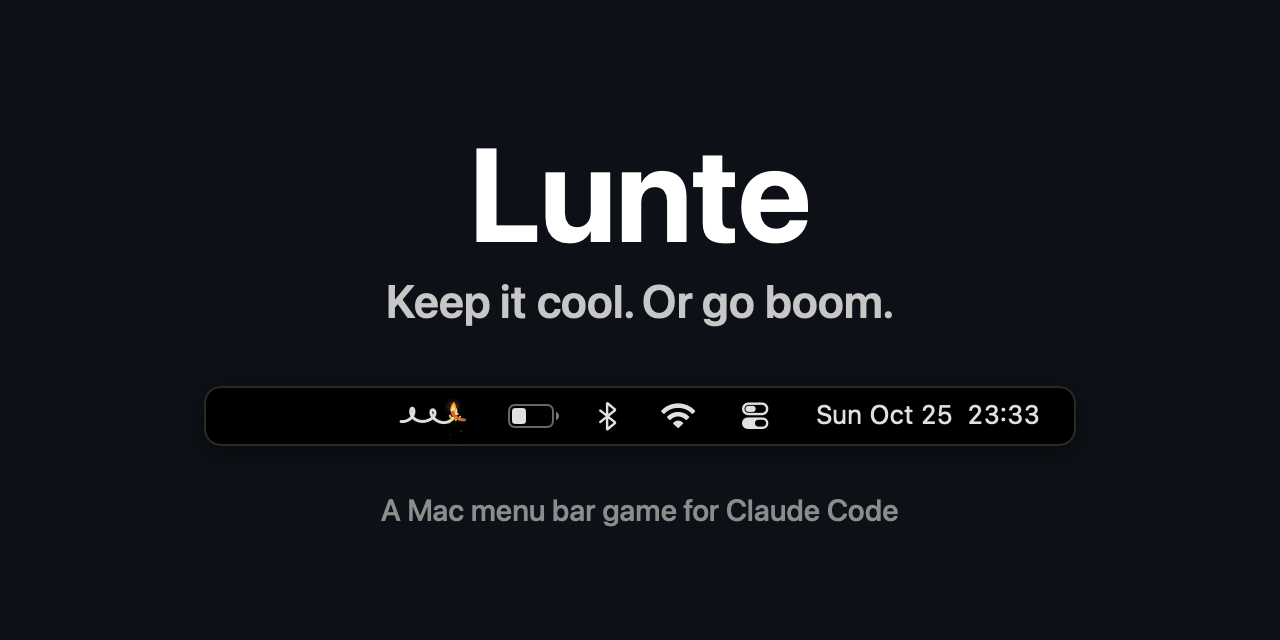
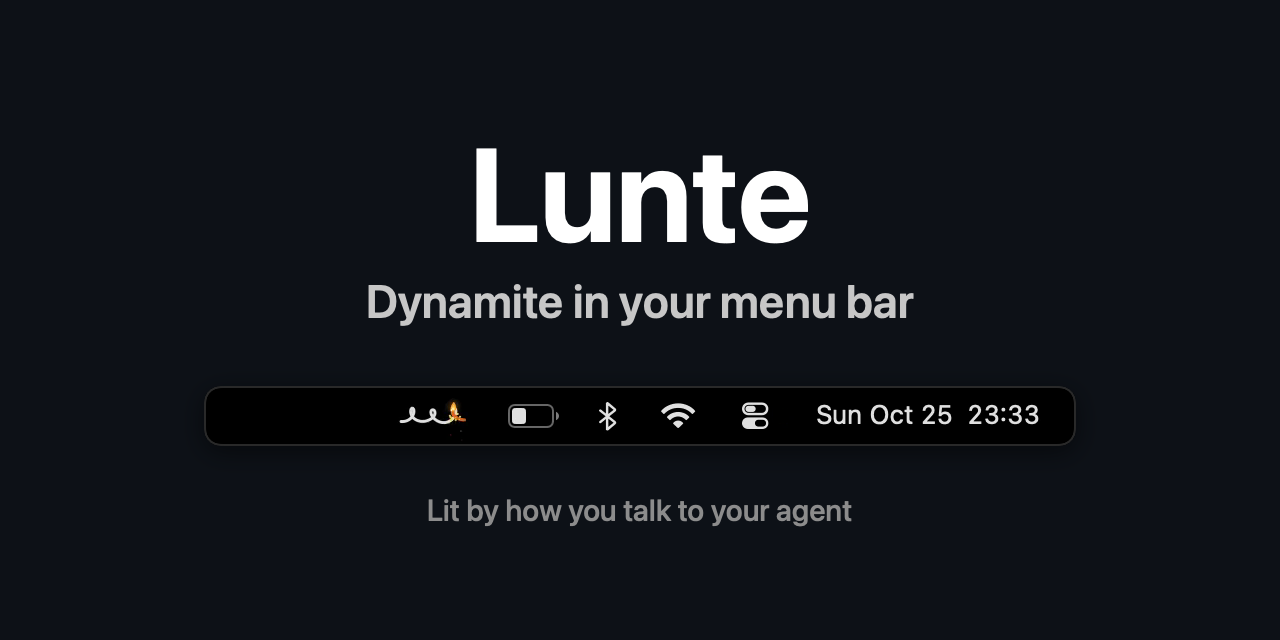
Lunte: dynamite in your menu bar
The README's name says what it is now, and one line says how it works: lit by
how you talk to your agent; keep it cool and the fuse grows, turn up the heat
and it blows. Under Download, that Lunte never stores or sends your prompts,
and Laya reads them on your Mac. Then: ask your agent to install it. The
social preview says the same.

Changed region(s): [[0.2812, 0.4375, 0.7188, 0.5312], [0.2812, 0.7812, 0.7188, 0.8438]]

diff --git a/scripts/render-fuse.swift b/scripts/render-fuse.swift
@@ -91,7 +91,7 @@ struct RenderFuse {
             .shadow(color: .black.opacity(dark ? 0.5 : 0.18), radius: h * 0.22, y: h * 0.1)
     }
 
-    /// The repo's social preview, 1280 x 640, what a link to it shows: the name, the line, and of the menu bar's frames
+    /// The repo's social preview, 1280 x 640, what a link to it shows: the name, what it is, and of the menu bar's frames
     /// in FRAMES the one with the most fire in it, on GitHub's dark page.
     @MainActor static func social(_ frames: String, _ out: String) {
         let bars = try! FileManager.default.contentsOfDirectory(atPath: frames).filter { $0.hasSuffix(".png") }.sorted()
@@ -99,10 +99,10 @@ struct RenderFuse {
         let bar = bars.max { fire($0) < fire($1) }!
         let view = VStack(spacing: 0) {
             Text("Lunte").font(.system(size: 132, weight: .bold)).foregroundStyle(.white)
-            Text("Keep it cool. Or go boom.").font(.system(size: 46, weight: .semibold)).foregroundStyle(Color(white: 0.78))
+            Text("Dynamite in your menu bar").font(.system(size: 46, weight: .semibold)).foregroundStyle(Color(white: 0.78))
                 .padding(.top, 4)
             floating(bar, dark: true).padding(.top, 58)
-            Text("A Mac menu bar game for Claude Code").font(.system(size: 30, weight: .medium)).foregroundStyle(Color(white: 0.55))
+            Text("Lit by how you talk to your agent").font(.system(size: 30, weight: .medium)).foregroundStyle(Color(white: 0.55))
                 .padding(.top, 46)
         }
         .frame(width: 1280, height: 640)

diff --git a/README.md b/README.md
@@ -1,4 +1,4 @@
-<h1 align="center">Lunte</h1>
+<h1 align="center">Lunte: dynamite in your menu bar</h1>
 
 <p align="center">
   <picture>
@@ -7,24 +7,24 @@
   </picture>
 </p>
 
-<p align="center"><b>Keep it cool. Or go boom.</b><br>
-A stick of dynamite in your menu bar, lit by how you talk to your agent. For Claude Code on Mac.</p>
+<p align="center">Lit by how you talk to your agent. Keep it cool and the fuse grows. Turn up the heat, and it blows.</p>
 
 <p align="center">
   <a href="https://github.com/ProggePal/lunte-app/releases/latest"><img src="https://img.shields.io/github/v/release/ProggePal/lunte-app?label=Download%20for%20Mac&logo=apple&style=for-the-badge&color=e8590c" alt="Download for Mac"></a>
 </p>
 
-## Get Lunte in your menu bar
-Paste this into Claude Code, and it installs Lunte for you:
+<p align="center"><sub>Lunte never stores or sends your prompts. A small model on your Mac, <a href="https://huggingface.co/convaiinnovations/laya-multilingual">Laya</a>, reads the heat and the cool.</sub></p>
+
+Ask your agent to install it:
 
 ```
-Install Lunte for me: https://github.com/ProggePal/lunte-app
+Hey dude, please install this for me: https://github.com/ProggePal/lunte-app
 ```
 
 ## How it works
 <p align="center">
   <img src="docs/clips/fuse.gif" alt="Lunte's fuse over Claude Code: two mean prompts burn it into its last third, two kind ones grow it back">
-  <br><sub>Heat burns it. Cool grows it back. Burn through it, it goes boom.</sub>
+  <br><sub>Burn through it, it goes boom.</sub>
 </p>
 
 - **Heat and cool.** Frustration is heat. Casual is cool. Claude tunes this for you during setup.
@@ -38,7 +38,7 @@ Install Lunte for me: https://github.com/ProggePal/lunte-app
 > Lunte is a prototype. Version 0.2.2 has heat, a fuse tuned to you, the Boom, and Clubs with pings, reactions and comments. Cool, sessions, aura and Leagues are coming next.
 
 ## Install
-1. Paste the install line above into Claude Code. Or download `Lunte-<version>.zip` from the [latest release](https://github.com/ProggePal/lunte-app/releases/latest), unzip it, and drag Lunte into Applications. It's signed and notarized, and it updates itself.
+1. Ask your agent to install it, with the line at the top. Or download `Lunte-<version>.zip` from the [latest release](https://github.com/ProggePal/lunte-app/releases/latest), unzip it, and drag Lunte into Applications. It's signed and notarized, and it updates itself.
 2. Open it, click the fuse in your menu bar, and follow the three steps: download the Heat Detector (483 MB, once), connect to Claude Code, and tune hot and cool to you. Then type `3 2 1 boom` in Claude Code for your first Boom.
 3. Join a Club with its six-letter code, or create one, from the Club row in the popover.
 
